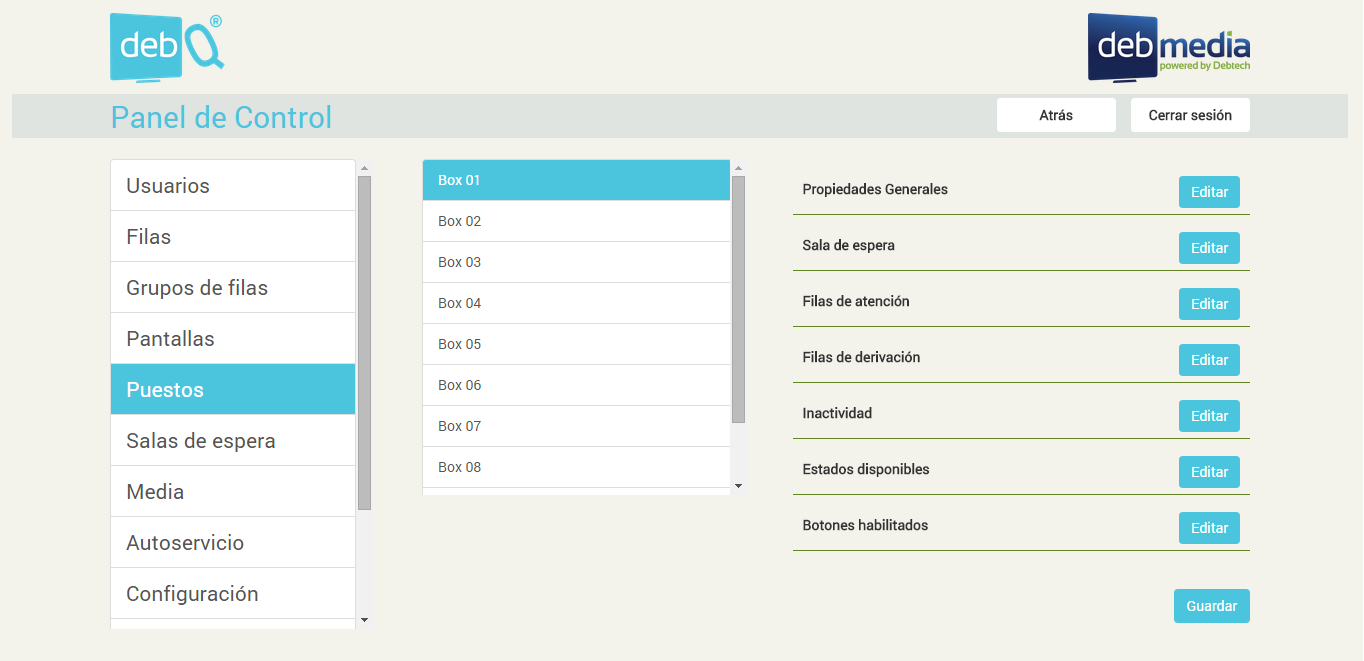
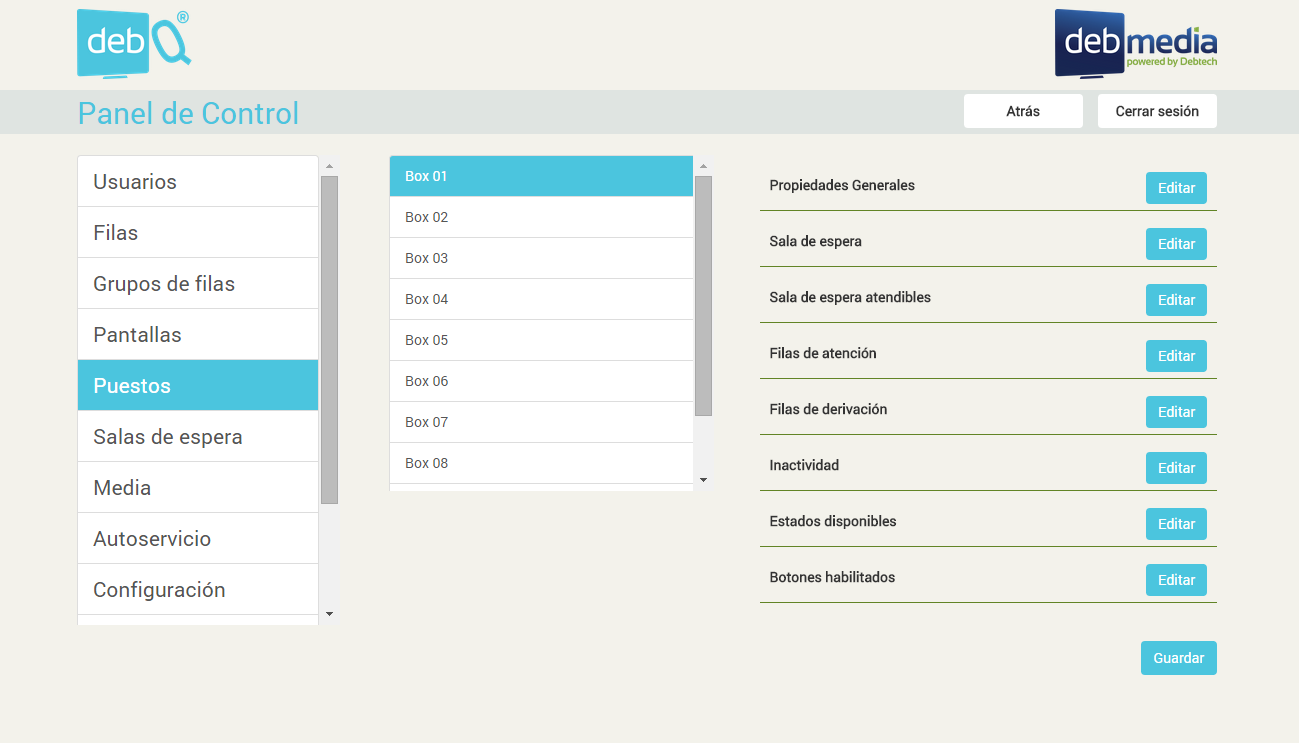
Se agrega a los manuales la opcion de salas de espera atendibles.

diff --git a/_posts/2015-2-9-User-Manual.md b/_posts/2015-2-9-User-Manual.md
@@ -193,6 +193,7 @@ A continuación se detalla cada propiedad que puede configurar
     * Nombre: Esta propiedad le servirá para identificar al puesto a lo largo del sistema
     * Nombre en tv: Este nombre es el que se verá en los players cuando dicho puesto llame a un turno.
  * Sala de espera: Con esta propiedad esta configurando la ubicación física del puesto.
+ * Salas de espera atendibles: Esta propiedad permite configurar las salas de espera sobre las cuales podrá atender turnos el puesto.
  * Filas de atención: Con esta propiedad lo que hará es configurar que trámites atiende cada puesto.
  * Filas de derivación: Con esta propiedad lo que hará es configurar a que trámites puede derivar turnos cada puesto.
  * Inactividad : Con esta propiedad lo que hará es configurar el tiempo por el cual el puesto puede permanecer en estado **Online** sin realizar acciones.
@@ -212,6 +213,8 @@ Cada puesto pertenece a una **Sala de espera** y atiende **Filas** , supongamos 
  * El puesto **Box 02** esta ubicado en la sala de espera **Sala de espera 2** y atiende los tramites **Fila 1** y **Fila 3** 
 
 Como tanto el **Box 01** como el **Box 02** atienden la **Fila 1** en distintas salas de espera , los turnos pertenecientes al tramite **Fila 1** se podrán atender tanto en la sala **Sala de espera 1** como en la sala **Sala de espera 2** , por esto es que es importante configurar una sala de espera por defecto , ya que cuando ingresa un turno por la terminal táctil , en dicho momento no es posible seleccionar la sala de espera a la cual debe ir a esperar el turno. Luego en una derivación de algún turno del tramite **Fila 1** se podrá seleccionar la sala de espera a la cual será enviado el turno.
+
+Por otro lado la configuración de salas de espera atendibles permite a un puesto poder atender turnos de una sala de espera a la cual no pertenece, en general esta acción no es recomendable por el hecho de que produce movimiento de personas entre salas de esperas que físicamente están ubicadas en lugares distintos.
 
 ## Configuración de salas de espera
 
@@ -267,22 +270,25 @@ A continuación se detalla la funcionalidad de cada sección:
  1.  Estado del puesto de atención.  
  2.  Lista de filas habilitadas desde el panel de control para el puesto.
  3.  Botón para llamar al siguiente en la fila seleccionada en la lista 2.
- 4.  Lista de turnos de la fila seleccionada en la lista 2.
- 5.  Botón para llamar al turno seleccionado en la lista 4.
- 6.  Campo para ingresar numero a llamar cuando la fila es **fila de entrada**.
- 7.  Campo donde se visualiza el turno en atención.
- 8.  Botón para volver a llamar al turno llamado.
- 9.  Campo que indica la cantidad de personas en espera para la fila seleccionada en la lista 2.
- 10. Último turno llamado para la fila seleccionada en la lista 2.
- 11. Botón para finalizar el turno llamado.
- 12. Botón para finalizar el turno llamado, para el caso donde la persona no se presentó, este botón a diferencia del anterior, finaliza el turno pero no computa estadística.
- 13. Este selector permite elegir la fila a donde se derivará el turno en atención.
- 14. Botón que deriva el turno en atención.
- 15. Este botón manda al turno en atención, al final de la fila, es similar al botón anterior con la diferencia que no computa estadística y es útil para el caso donde la persona no se presento, pero no se desea perder el turno para contemplar la eventual aparición de la persona.
- 16. Este botón cancela la ultima derivación realizada por el puesto y le coloca el turno al puesto como turno en atención, este botón es útil para el caso donde la persona que atiende el puesto realizo una derivación errónea.
- 17. Este botón cancela el llamado realizado, es útil para el caso donde la persona realizo un llamado erróneo.
- 18. Este botón lo dirige a la pagina anterior.
- 19. Este botón cierra la sesión y lo dirige a la página de autenticación.
+ 4.  Esta opción permite cambiar la sala de espera para así poder visualizar los turnos de otra sala de espera y poder llamarlos.
+ 5.  Lista de turnos de la fila seleccionada en la lista 2.
+ 6.  Botón para llamar al turno seleccionado en la lista 4.
+ 7.  Campo para ingresar numero a llamar cuando la fila es **fila de entrada**.
+ 8.  Campo donde se visualiza el turno en atención.
+ 9.  Botón para volver a llamar al turno llamado.
+ 10.  Campo que indica la cantidad de personas en espera para la fila seleccionada en la lista 2.
+ 11. Último turno llamado para la fila seleccionada en la lista 2.
+ 12. Botón para finalizar el turno llamado.
+ 13. Botón para finalizar el turno llamado, para el caso donde la persona no se presentó, este botón a diferencia del anterior, finaliza el turno pero no computa estadística.
+ 14. Este selector permite elegir la fila a donde se derivará el turno en atención.
+ 15. Botón que deriva el turno en atención.
+ 16. Este botón manda al turno en atención, al final de la fila, es similar al botón anterior con la diferencia que no computa estadística y es útil para el caso donde la persona no se presento, pero no se desea perder el turno para contemplar la eventual aparición de la persona.
+ 17. Este botón cancela la ultima derivación realizada por el puesto y le coloca el turno al puesto como turno en atención, este botón es útil para el caso donde la persona que atiende el puesto realizo una derivación errónea.
+ 18. Este botón cancela el llamado realizado, es útil para el caso donde la persona realizo un llamado erróneo.
+ 19. Este botón lo dirige a la pagina anterior.
+ 20. Este botón cierra la sesión y lo dirige a la página de autenticación.
+
+Es importante notar que todas las alertas configuradas para los grupos y/o filas son para la sala de espera a la cual pertenece el puesto, incluso si se cambia la sala de espera desde la opción 4.
 
 # Monitoreo
 

diff --git a/_posts/2015-2-9-Api-Manual.md b/_posts/2015-2-9-Api-Manual.md
@@ -223,6 +223,12 @@ Response Body:
             "id": "Id de sala",
             "name": "Nombre de sala"
         },
+        "callableWaitingRooms": [                                           //Sala de espera en donde puede llamar el puesto.
+          {
+            "id": "Id de sala",
+            "name": "Nombre de sala"
+          }
+        ],
         "possibleStates":                                                   //Posibles estados que puede tener el puesto de trabajo.
         [  
             {  
@@ -297,6 +303,7 @@ Request Body:
 {
     'queueGroup.id' : 'Id de grupo',            //Campo obligatorio
     'turn.id' : 'Id de turno'                   //Campo opcional  
+    'waitingRoom.id' : 'Id de sala de espera'   //Campo opcional 
 }
 
 Response Headers:
@@ -316,6 +323,7 @@ Status code: 200 OK
 ```
 
 Como se observa en el request body el parámetro 'qTurn.id' es opcional. En caso de no completar dicho campo el servidor llamará automáticamente al siguiente. En caso contrario tratará de llamar el turno especificado.
+El campo 'waitingRoom.id' también es opcional, si no se envía se tomara la sala de espera a la que pertenece el puesto para realizar el llamado. Es importante notar que en el caso que se especifique un id de turno no es necesario completar el id de sala de espera ya que este parámetro se tomará del turno especificado.
 
 #### Proceso de finalizado
 
